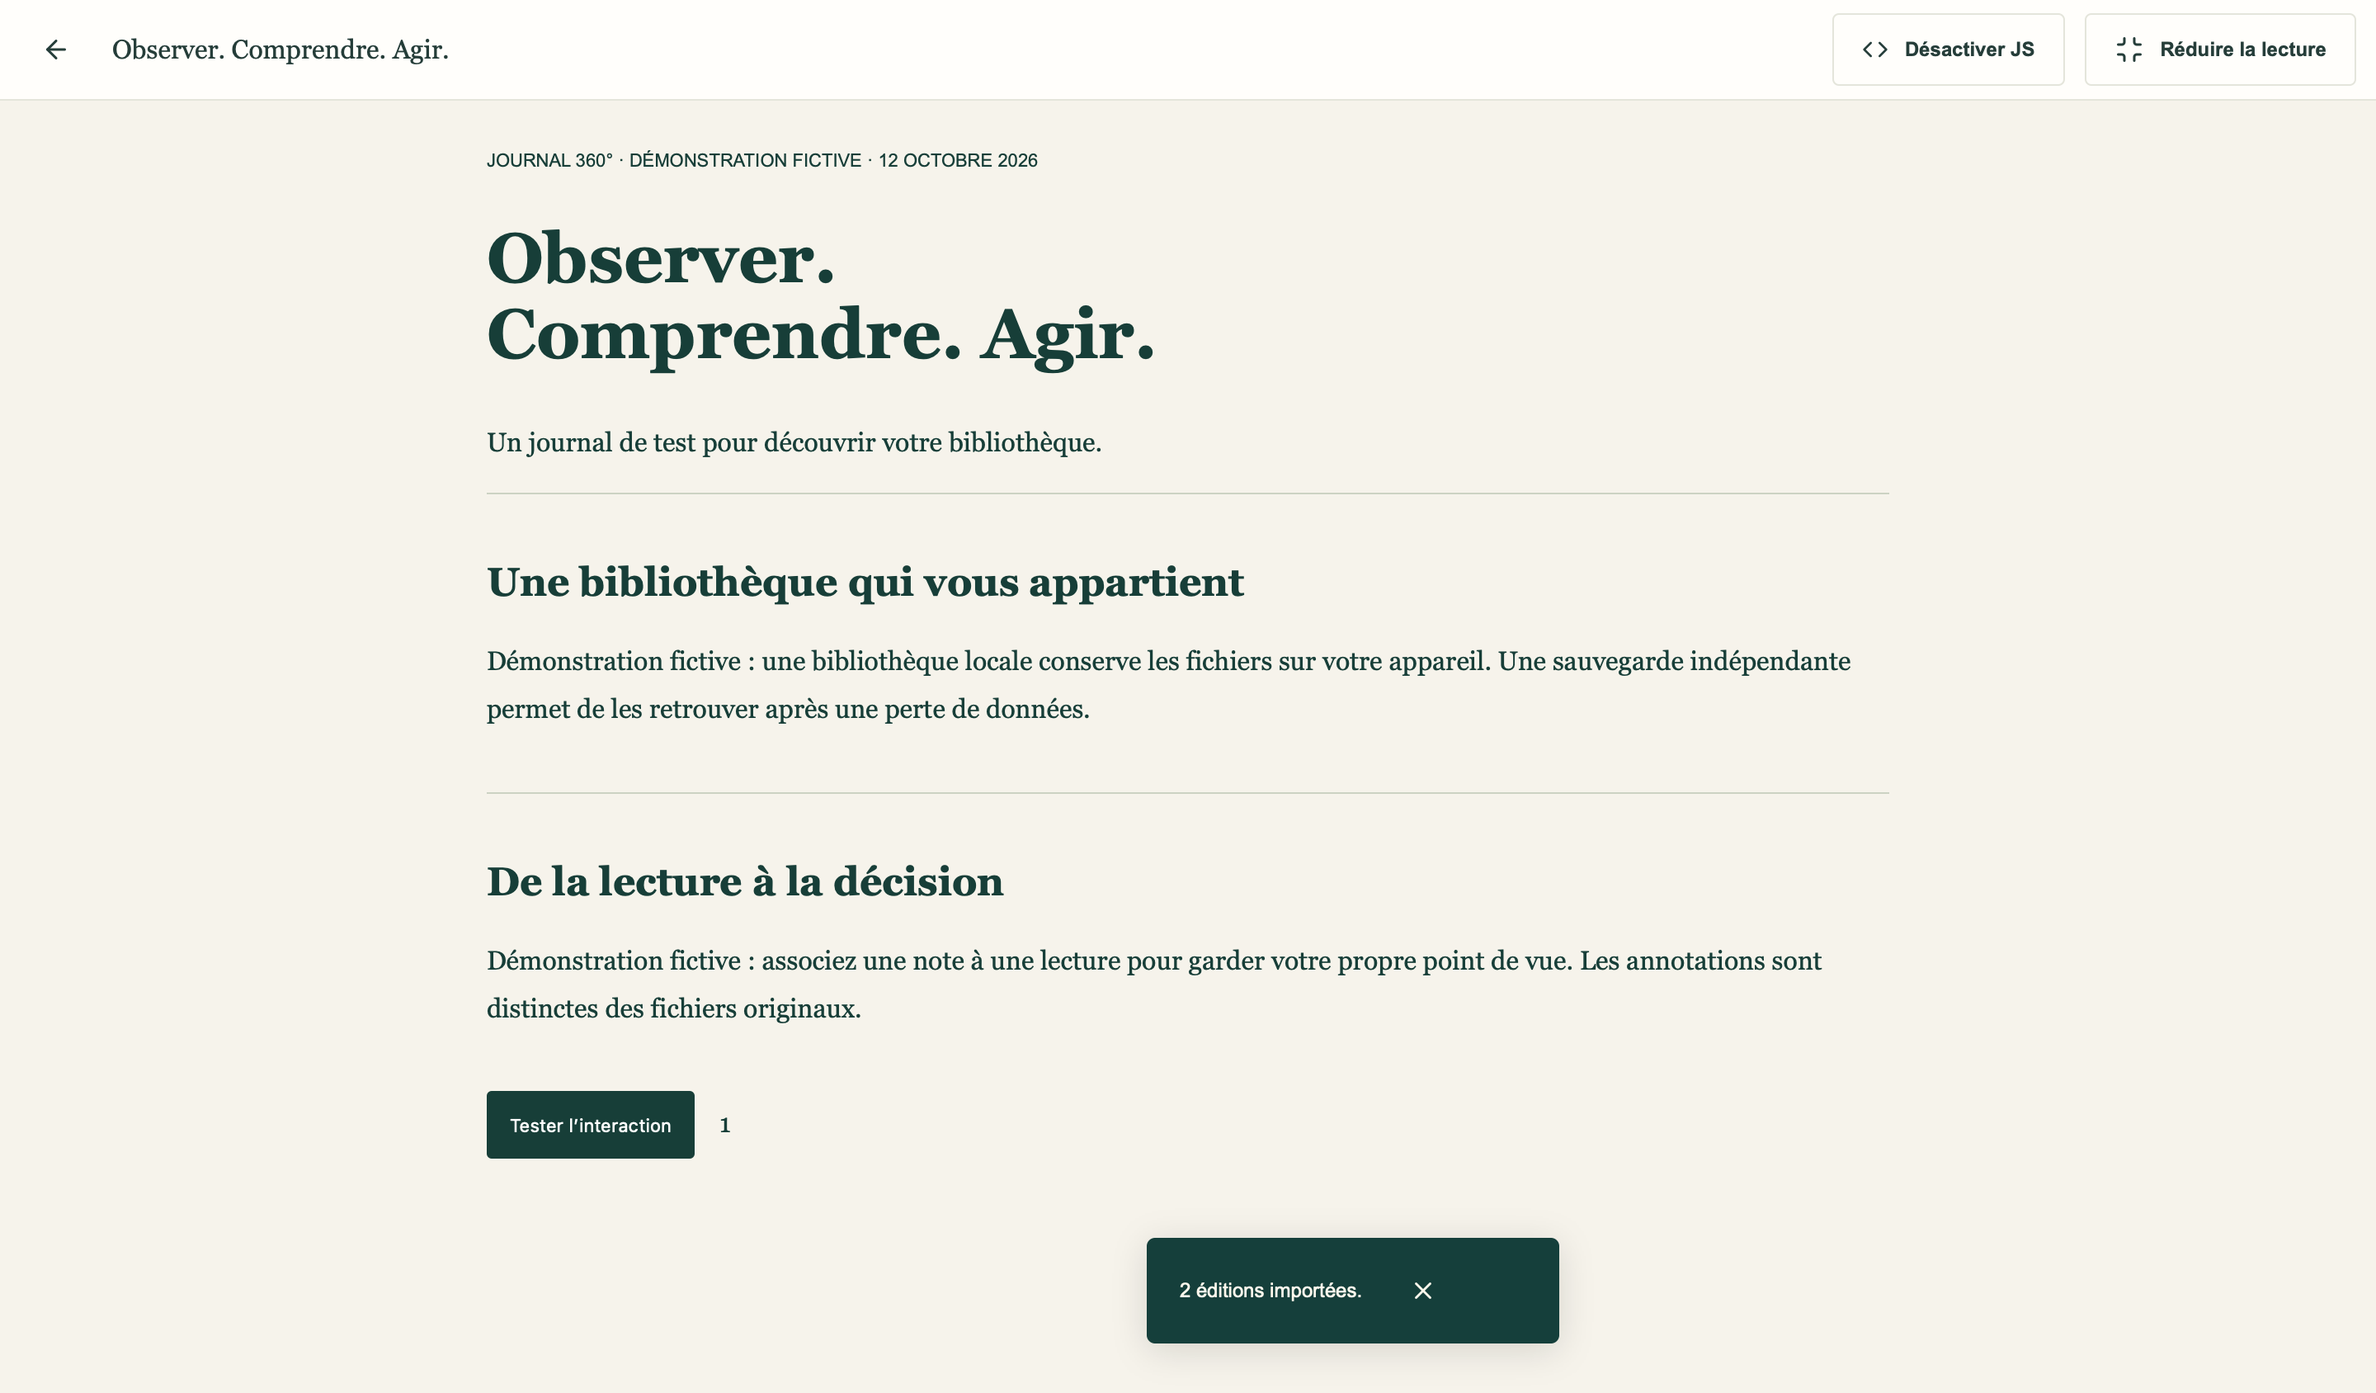
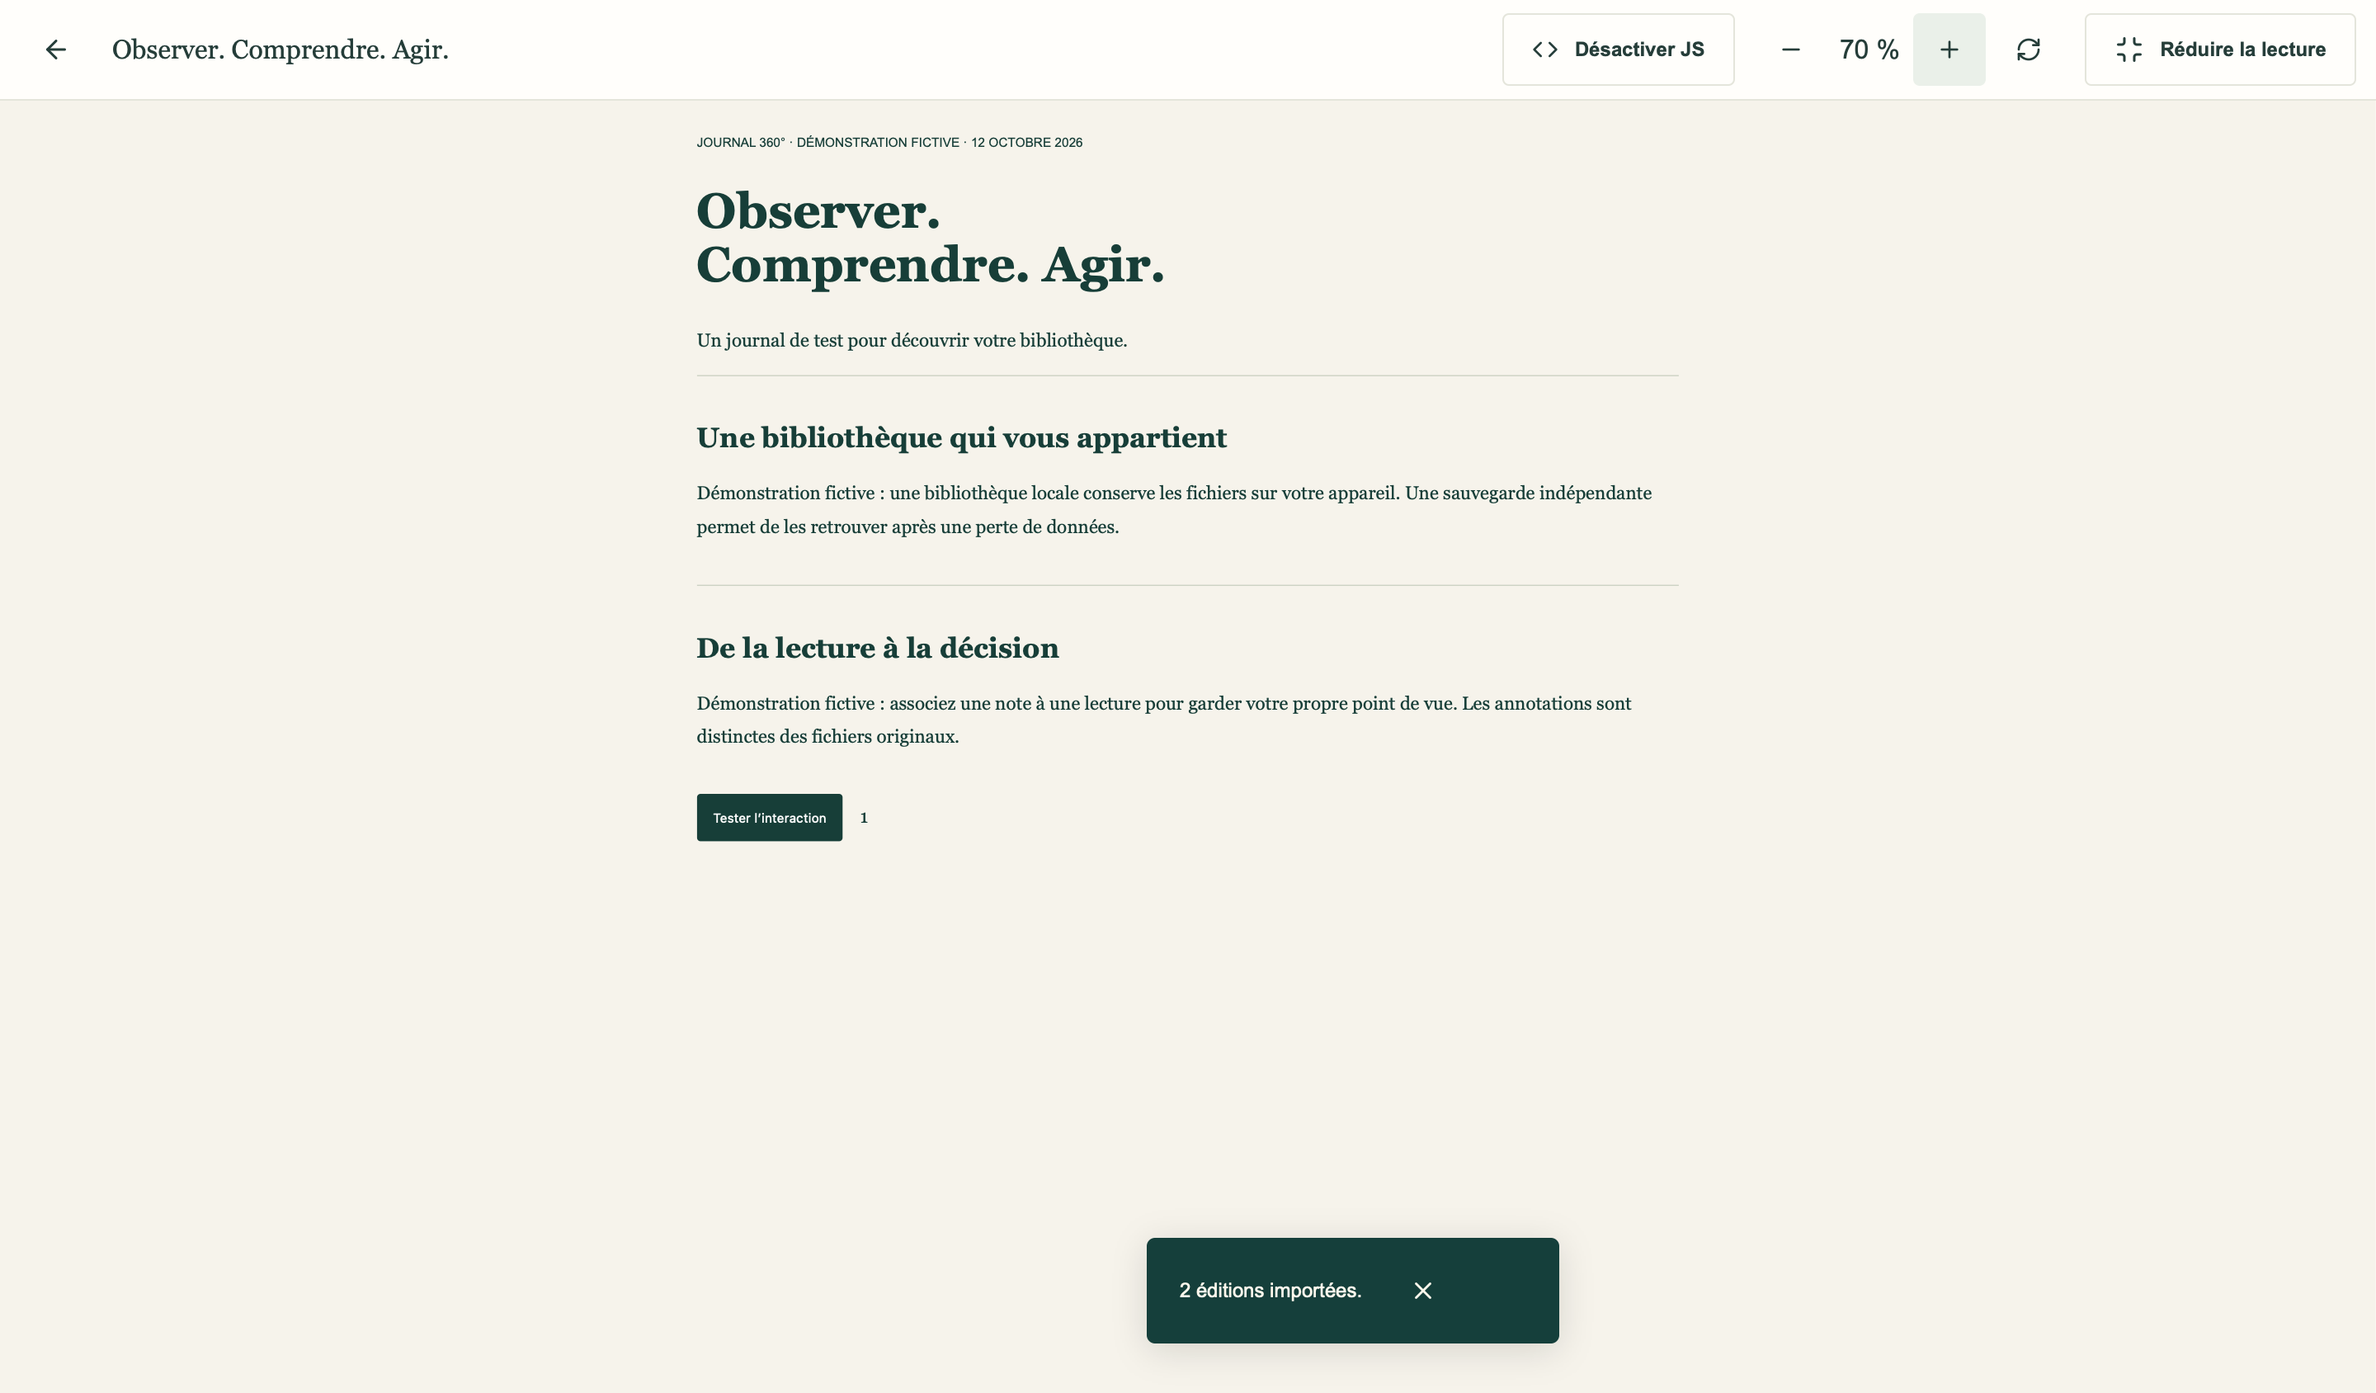
Fix blank HTML frame on Chrome and add adjustable 70 percent journal zoom

diff --git a/src/features/Reader.tsx b/src/features/Reader.tsx
@@ -1,4 +1,4 @@
-import { useEffect, useRef, useState } from "react";
+import { useEffect, useMemo, useRef, useState } from "react";
 import {
   ArrowLeft,
   ArrowRight,
@@ -13,6 +13,7 @@ import {
   Archive,
   Maximize,
   Minimize,
+  RefreshCw,
 } from "lucide-react";
 import type { Edition, ReadingState, Note } from "../data/model";
 import { blobOf, dateLabel, now } from "../data/model";
@@ -46,7 +47,14 @@ export function Reader({
   const [note, setNote] = useState("");
   const [kind, setKind] = useState<"note" | "decision">("note");
   const [article, setArticle] = useState("");
-  const [srcDoc, setSrcDoc] = useState("");
+  const [htmlZoom, setHtmlZoom] = useState(70);
+  const [frameRevision, setFrameRevision] = useState(0);
+  // Monter le cadre avec son document final. Un srcdoc vide puis modifié après
+  // montage peut rester blanc dans Chrome, surtout lors du changement de sandbox.
+  const srcDoc = useMemo(
+    () => (bytes ? isolatedHTML(bytes, mode === "interactive") : ""),
+    [bytes, mode],
+  );
   const [loadError, setLoadError] = useState("");
   useDialogFocus(confirm, () => setConfirm(false));
   const state = states.find(
@@ -82,9 +90,6 @@ export function Reader({
       canceled = true;
     };
   }, [edition.id]);
-  useEffect(() => {
-    if (bytes) setSrcDoc(isolatedHTML(bytes, mode === "interactive"));
-  }, [bytes, mode]);
   useEffect(() => {
     if (!expanded || !surfaceRef.current) return;
     const surface = surfaceRef.current;
@@ -309,6 +314,40 @@ export function Reader({
               </button>
             </>
           )}
+          {mode !== "text" && (
+            <div
+              className="reading-zoom"
+              role="group"
+              aria-label="Zoom du HTML"
+            >
+              <button
+                className="icon-button"
+                aria-label="Dézoomer le HTML"
+                disabled={htmlZoom <= 40}
+                onClick={() => setHtmlZoom(Math.max(40, htmlZoom - 10))}
+              >
+                <Minus size={16} />
+              </button>
+              <output aria-live="polite" aria-label="Échelle du HTML">
+                {htmlZoom} %
+              </output>
+              <button
+                className="icon-button"
+                aria-label="Zoomer le HTML"
+                disabled={htmlZoom >= 150}
+                onClick={() => setHtmlZoom(Math.min(150, htmlZoom + 10))}
+              >
+                <Plus size={16} />
+              </button>
+              <button
+                className="icon-button"
+                aria-label="Recharger le HTML"
+                onClick={() => setFrameRevision((revision) => revision + 1)}
+              >
+                <RefreshCw size={16} />
+              </button>
+            </div>
+          )}
           <button
             className="secondary"
             aria-expanded={expanded}
@@ -428,17 +467,31 @@ export function Reader({
               )}
             </div>
           </div>
-        ) : bytes ? (
-          <iframe
-            key={`${edition.id}-${mode}`}
-            className="edition-frame"
-            title={`Lecture de ${edition.title}`}
-            sandbox={mode === "interactive" ? "allow-scripts" : ""}
-            referrerPolicy="no-referrer"
-            srcDoc={srcDoc}
-          />
+        ) : srcDoc ? (
+          <div className="edition-viewport">
+            <iframe
+              key={`${edition.id}-${mode}-${frameRevision}`}
+              className="edition-frame"
+              title={`Lecture de ${edition.title}`}
+              sandbox={mode === "interactive" ? "allow-scripts" : ""}
+              referrerPolicy="no-referrer"
+              srcDoc={srcDoc}
+              style={{
+                width: `${10000 / htmlZoom}%`,
+                height: `${10000 / htmlZoom}%`,
+                transform: `scale(${htmlZoom / 100})`,
+              }}
+            />
+          </div>
         ) : (
-          <p>Chargement de l’original…</p>
+          <div className="reader-loading">
+            <p role="status">{loadError || "Chargement de l’original…"}</p>
+            {loadError && (
+              <button className="secondary" onClick={() => setMode("text")}>
+                Afficher le texte conservé
+              </button>
+            )}
+          </div>
         )}
         {confirm && (
           <div className="modal-backdrop">

diff --git a/tests/e2e/app.spec.ts b/tests/e2e/app.spec.ts
@@ -348,6 +348,19 @@ test("File Handling launchQueue traite un HTML via le même écran de vérificat
 test("lecture pleine page : tout le viewport, interactions conservées et retour sur mobile", async ({
   page,
 }) => {
+  await page.addInitScript(() => {
+    const append = Node.prototype.appendChild;
+    Node.prototype.appendChild = function <T extends Node>(node: T): T {
+      if (
+        node instanceof HTMLIFrameElement &&
+        node.classList.contains("edition-frame") &&
+        !node.srcdoc
+      ) {
+        document.documentElement.dataset.emptyReaderFrame = "true";
+      }
+      return append.call(this, node) as T;
+    };
+  });
   await page.goto("/");
   await demo(page);
   await page
@@ -374,8 +387,22 @@ test("lecture pleine page : tout le viewport, interactions conservées et retour
     await expect(page.getByRole("dialog")).toBeVisible();
     const bounds = await page.locator("iframe").boundingBox();
     expect(bounds?.x).toBe(0);
-    expect(bounds?.width).toBe(width);
-    expect(bounds?.height).toBeGreaterThan(750);
+    expect(Math.abs(bounds!.width - width)).toBeLessThan(1);
+    expect(bounds?.height).toBeGreaterThan(600);
+    expect(Math.abs(bounds!.y + bounds!.height - 844)).toBeLessThan(1);
+    await expect(
+      page.getByLabel("Échelle du HTML", { exact: true }),
+    ).toHaveText("70 %");
+    await page
+      .getByRole("button", { name: "Dézoomer le HTML", exact: true })
+      .click();
+    await expect(
+      page.getByLabel("Échelle du HTML", { exact: true }),
+    ).toHaveText("60 %");
+    await expect(frame.locator("#counter")).toHaveText("1");
+    await page
+      .getByRole("button", { name: "Zoomer le HTML", exact: true })
+      .click();
     await expect(page.locator("iframe")).toHaveAttribute(
       "sandbox",
       "allow-scripts",
@@ -398,4 +425,32 @@ test("lecture pleine page : tout le viewport, interactions conservées et retour
     .click();
   await page.keyboard.press("Escape");
   await expect(page.getByRole("dialog")).toHaveCount(0);
+  expect(
+    await page.locator("html").getAttribute("data-empty-reader-frame"),
+  ).toBeNull();
+  await page.reload();
+  await page
+    .getByRole("button", {
+      name: "Lire Observer. Comprendre. Agir.",
+      exact: true,
+    })
+    .click();
+  await expect(
+    page.getByRole("button", { name: "Désactiver JS", exact: true }),
+  ).toBeVisible();
+  await frame.getByRole("button", { name: "Tester l’interaction" }).click();
+  await expect(frame.locator("#counter")).toHaveText("1");
+  expect(
+    await page.locator("html").getAttribute("data-empty-reader-frame"),
+  ).toBeNull();
+  await page
+    .getByRole("button", { name: "Recharger le HTML", exact: true })
+    .click();
+  await expect(frame.locator("#counter")).toHaveText("0");
+  await expect(page.getByLabel("Échelle du HTML", { exact: true })).toHaveText(
+    "70 %",
+  );
+  await expect(
+    page.getByRole("button", { name: "Désactiver JS", exact: true }),
+  ).toBeVisible();
 });

diff --git a/src/styles.css b/src/styles.css
@@ -2273,7 +2273,34 @@ textarea {
 .reading-surface-expanded .reading-surface-header button {
   flex-shrink: 0;
 }
-.reading-surface-expanded .edition-frame {
+.edition-viewport {
+  position: relative;
+  height: 75vh;
+  min-height: 400px;
+  overflow: hidden;
+  border: 1px solid var(--line);
+  border-radius: 12px;
+}
+.edition-viewport .edition-frame {
+  position: absolute;
+  inset: 0;
+  min-height: 0;
+  border: 0;
+  border-radius: 0;
+  transform-origin: top left;
+}
+.reading-zoom {
+  display: flex;
+  align-items: center;
+  gap: 4px;
+  flex-shrink: 0;
+}
+.reading-zoom output {
+  min-width: 44px;
+  text-align: center;
+  font-variant-numeric: tabular-nums;
+}
+.reading-surface-expanded .edition-viewport {
   flex: 1 1 auto;
   min-height: 0;
   height: 0;
@@ -2301,6 +2328,13 @@ textarea {
   }
   .reading-surface-expanded .reading-surface-header {
     font-size: 11px;
+    flex-wrap: wrap;
+    gap: 6px;
+  }
+  .reading-surface-expanded .reading-zoom {
+    order: 1;
+    flex-basis: 100%;
+    justify-content: center;
   }
   .primary,
   .secondary,

diff --git a/src/config.ts b/src/config.ts
@@ -4,4 +4,4 @@ export const CLOUD_URL =
 export const CLOUD_KEY =
   import.meta.env.VITE_SUPABASE_PUBLISHABLE_KEY ||
   "sb_publishable_ZoulExB_bKV1a4m_G9ThNw_2tHVT9zC";
-export const APP_VERSION = "1.0.1";
+export const APP_VERSION = "1.0.2";

diff --git a/README.md b/README.md
@@ -26,7 +26,7 @@ Ouvrir `http://127.0.0.1:4173`. `npm run dev` sert l’interface ; il ne lance p
 
 1. **Importer** un ou plusieurs `.html` / `.htm` UTF-8 (10 Mo par fichier, 20 fichiers et 100 Mo par sélection).
 2. Vérifier titre, date, avertissements et conservation des doublons. Enregistrer. Un même hash peut être ignoré, conservé séparément ou ajouté comme version.
-3. Ouvrir l’édition : elle occupe directement toute la page. Pour ses onglets et simulateurs, toucher **Interactif**, puis confirmer la confiance. Ce choix reste local à cette édition/appareil et peut être révoqué avec **Désactiver JS**. Le lecteur sécurisé désactive les scripts par défaut.
+3. Ouvrir l’édition : elle occupe directement toute la page. Le HTML est affiché à 70 % ; les boutons −/+ ajustent ce zoom sans perdre la navigation. Pour ses onglets et simulateurs, toucher **Interactif**, puis confirmer la confiance. Ce choix reste local à cette édition/appareil et peut être révoqué avec **Désactiver JS**. Le lecteur sécurisé désactive les scripts par défaut.
 4. Toucher **Réduire la lecture** pour accéder au mode texte et aux annotations. Garder un favori, marquer une lecture, enregistrer notes et décisions. Tous ces états sont dans IndexedDB, séparément du HTML original.
 5. Dans **Réglages**, exporter un ZIP et le conserver hors du navigateur. Restaurer un ZIP vérifie les fichiers SHA-256 avant toute écriture et fusionne sans effacement.
 6. Pour le cloud, saisir le code d’accès privé dans **Réglages**, puis **Sauvegarder dans Supabase**. Sur un autre appareil, retrouver une sauvegarde et la restaurer. Les transferts différés reprennent lors de la prochaine ouverture ou du retour réseau dans l’application.

diff --git a/ARCHITECTURE.md b/ARCHITECTURE.md
@@ -41,3 +41,5 @@ Service worker injectManifest : cache versionné du shell et des démos publique
 Le manifest déclare `file_handlers` et `share_target`. File Handling n’a pas de polyfill et reste limité aux plateformes compatibles ; l’import depuis Fichiers est le parcours universel. Une mise à jour demande l’action de l’utilisateur et conserve IndexedDB. Les tâches cloud ne présument pas la disponibilité de Background Sync.
 
 La lecture occupe le viewport dès l’ouverture ; agrandir/réduire conserve la même iframe et son état courant. La confiance par édition est stockée localement dans preferences et exclue des sauvegardes. En interactif, un adaptateur de history pushState/replaceState se limite aux fragments en cas de refus SecurityError dans srcdoc : aucun accès à l’historique parent. Affichage mobile 70 % avec hauteur plein écran compensée.
+
+Le srcdoc est calculé avec useMemo avant le montage : aucune iframe ne démarre avec un document vide ni un contenu du mode précédent. Le cadre est recréé lors du changement de mode. Le zoom HTML redimensionne son viewport interne et applique une transformation CSS de 70 % par défaut ; changer le zoom ou agrandir/réduire conserve le même cadre et son état. Recharger le HTML recrée uniquement le cadre, sans toucher aux octets ni annotations.

diff --git a/TEST_REPORT.md b/TEST_REPORT.md
@@ -21,6 +21,10 @@ Date : 13 octobre 2026, Europe/Paris. Environnement réel : macOS sur Mac ARM64,
 
 Le code et les données de test sont dans `tests/`, les preuves expurgées dans `docs/evidence/`. Les captures `docs/screenshots/home-{320,375,390,768,1024,1440}.png` sont des simulations navigateur. Les traces Playwright restent localement dans `test-results/`, ignoré par Git ; aucun token/session cloud n’y est enregistré par les tests E2E locaux.
 
+## Correctif 1.0.2
+
+Page blanche constatée dans le Chrome 153 actif de l’utilisateur : srcdoc présent (103 158 caractères), mais document du cadre vide malgré readyState complete. Remonter le même cadre avec son srcdoc complet a rendu immédiatement le HTML. Correctif : calcul synchrone du srcdoc avant montage, au lieu d’un effet postérieur. Tests : aucun montage avec srcdoc vide, passage sécurisé/interactif, réouverture avec confiance mémorisée, zoom 70 → 60 → 70 % conservant l’état, rechargement explicite du cadre. Le test de largeur tolère les arrondis sous-pixel dus au scale CSS.
+
 ## Parcours fonctionnels exécutés
 
 - Accueil vide ; import HTML générique sans JSON/date ; prévisualisation ; stockage ; lecture dans une iframe isolée.

diff --git a/CHANGELOG.md b/CHANGELOG.md
@@ -1,5 +1,9 @@
 # Versions
 
+## 1.0.2 — 13 octobre 2026
+
+Correction du lecteur blanc constaté sur Chrome 153 : le srcdoc est calculé avant montage du cadre au lieu d’être mis à jour dans un effet après montage. Zoom HTML indépendant à 70 % par défaut, réglable de 40 à 150 % sans recharger le contenu ; bouton de rechargement du cadre. Texte de secours visible si l’original manque.
+
 ## 1.0.1 — 13 octobre 2026
 
 Lecture pleine page dès l’ouverture, retour/réduction, affichage mobile à 70 %, confiance mémorisée par édition sur cet appareil. Contrôles de simulateurs conservés sans formulaires actifs, navigation par fragments adaptée au srcdoc isolé, sources JSON [libellé, URL] reconnues. Tests du fichier réel fourni sans publication de son contenu. Connexion par code privé sans email, même compte de sauvegarde sur tous les appareils. Configuration serveur de production.
